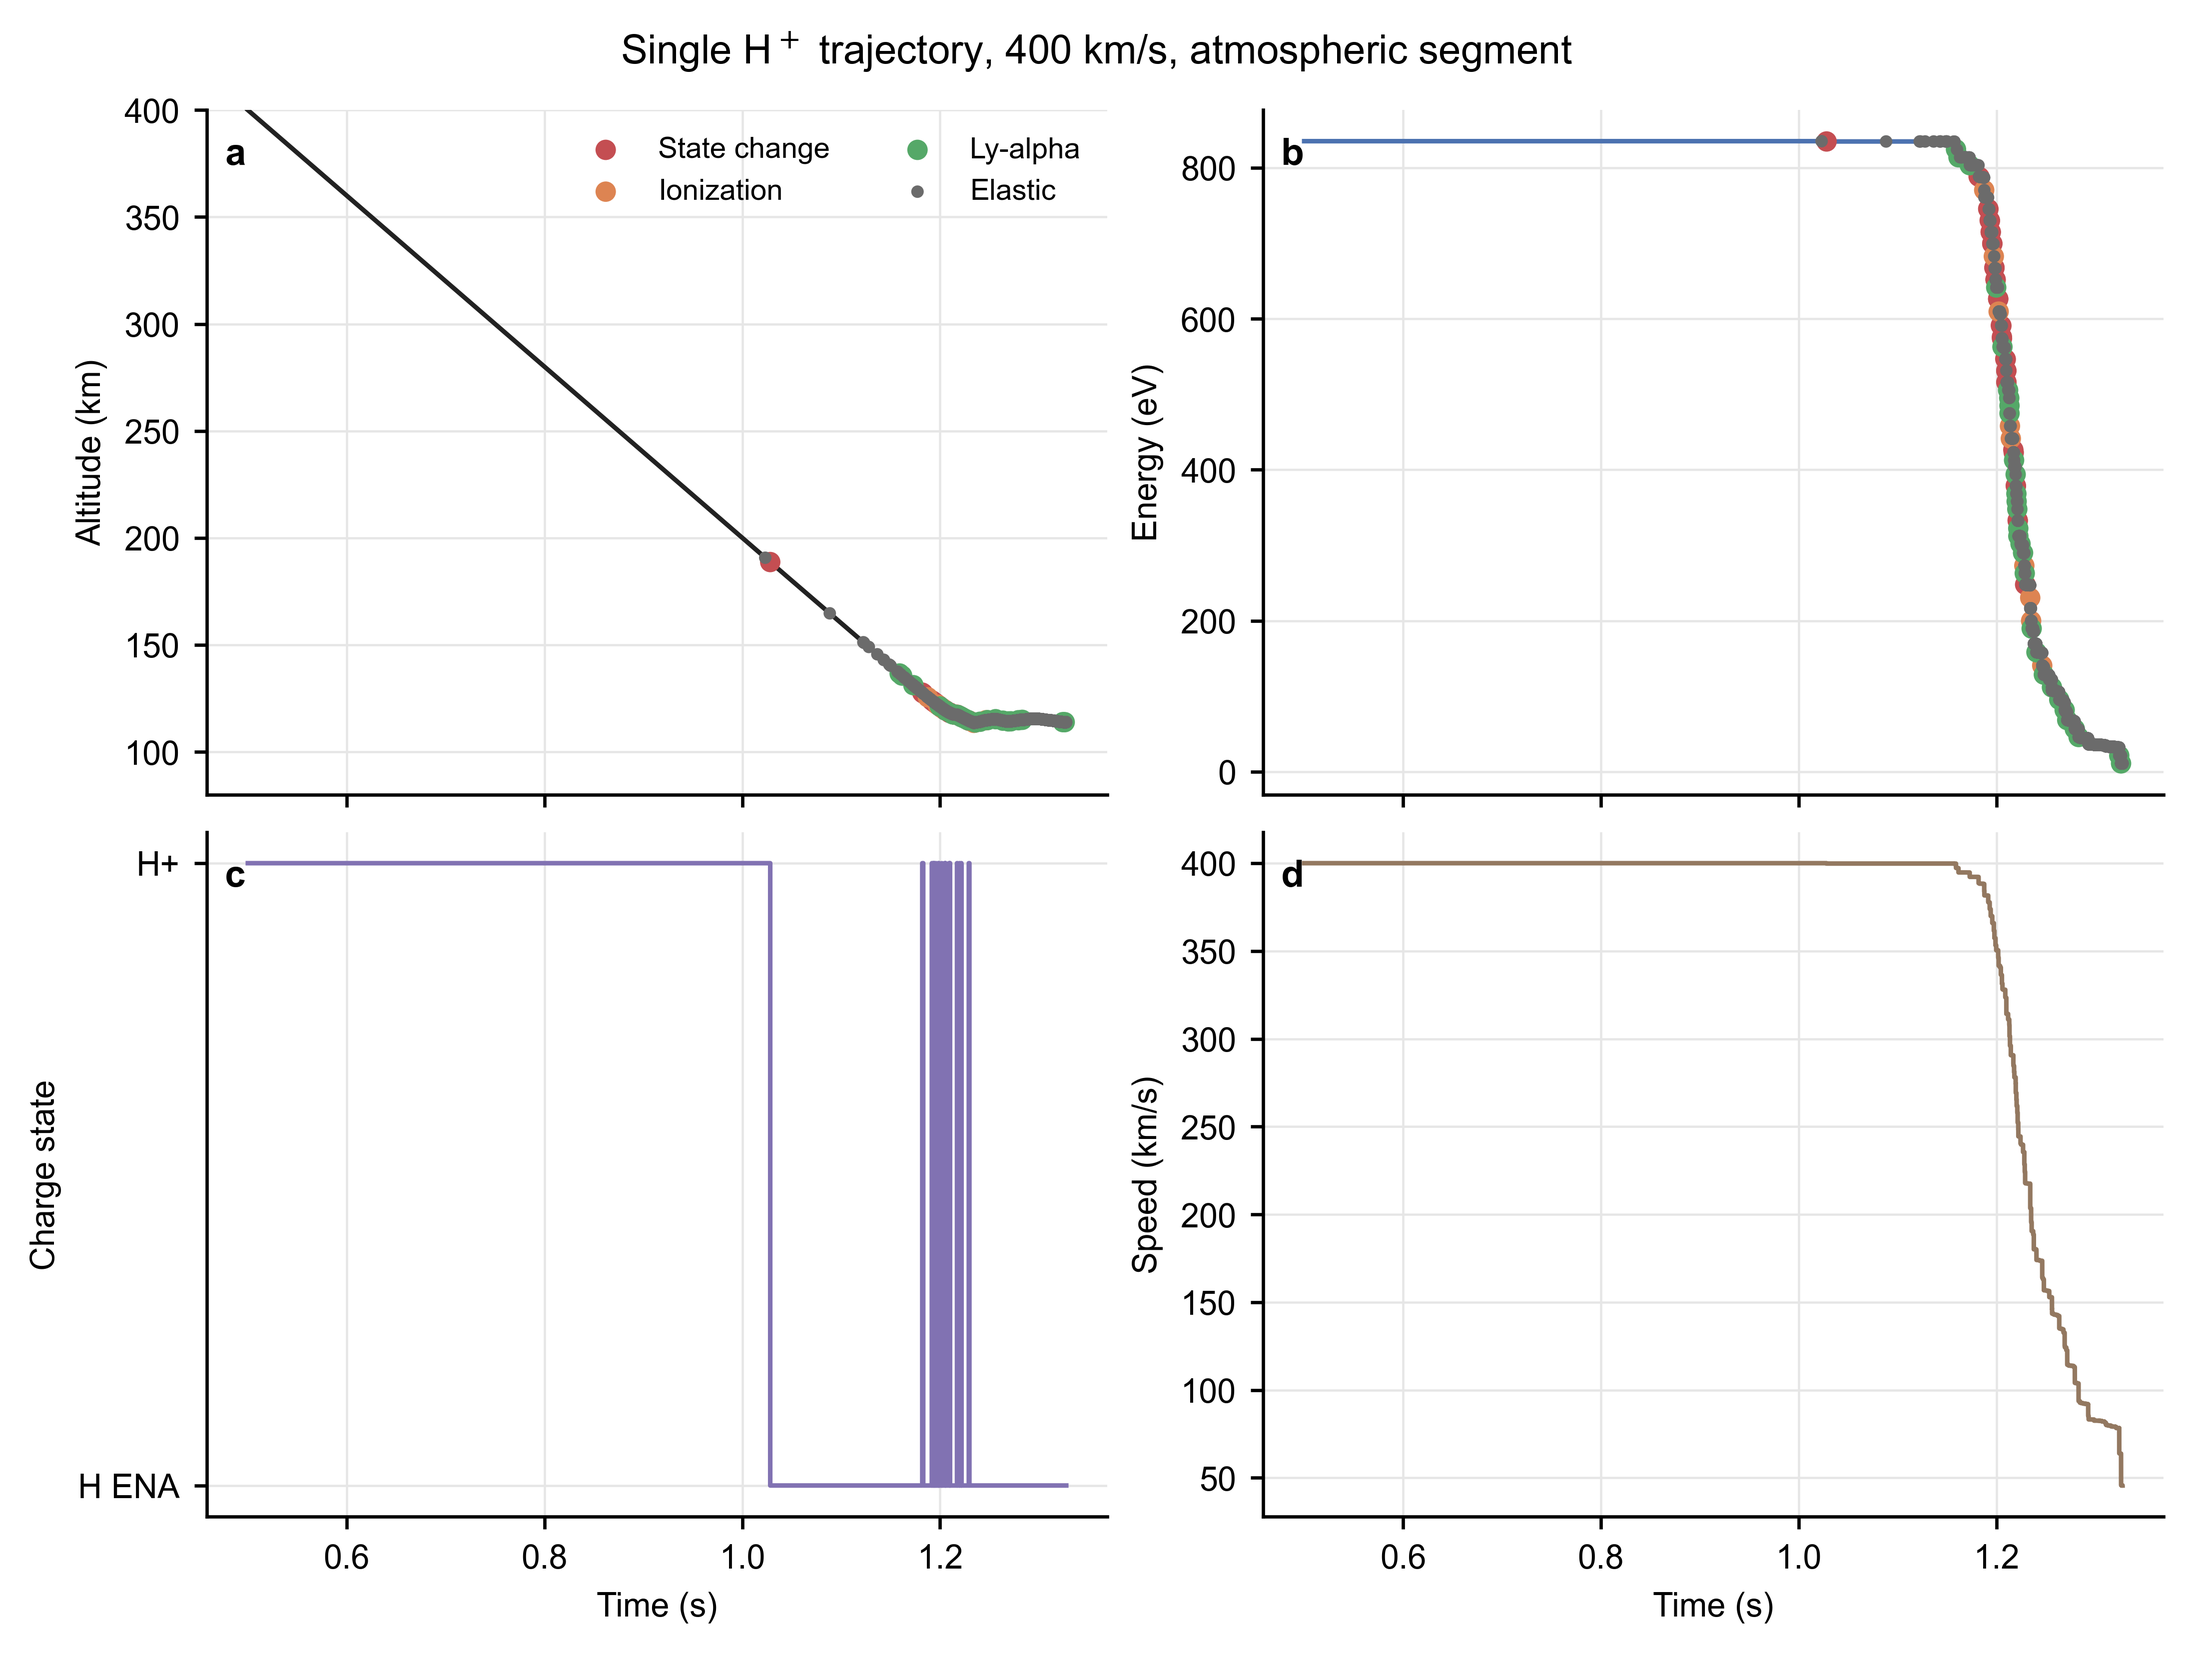
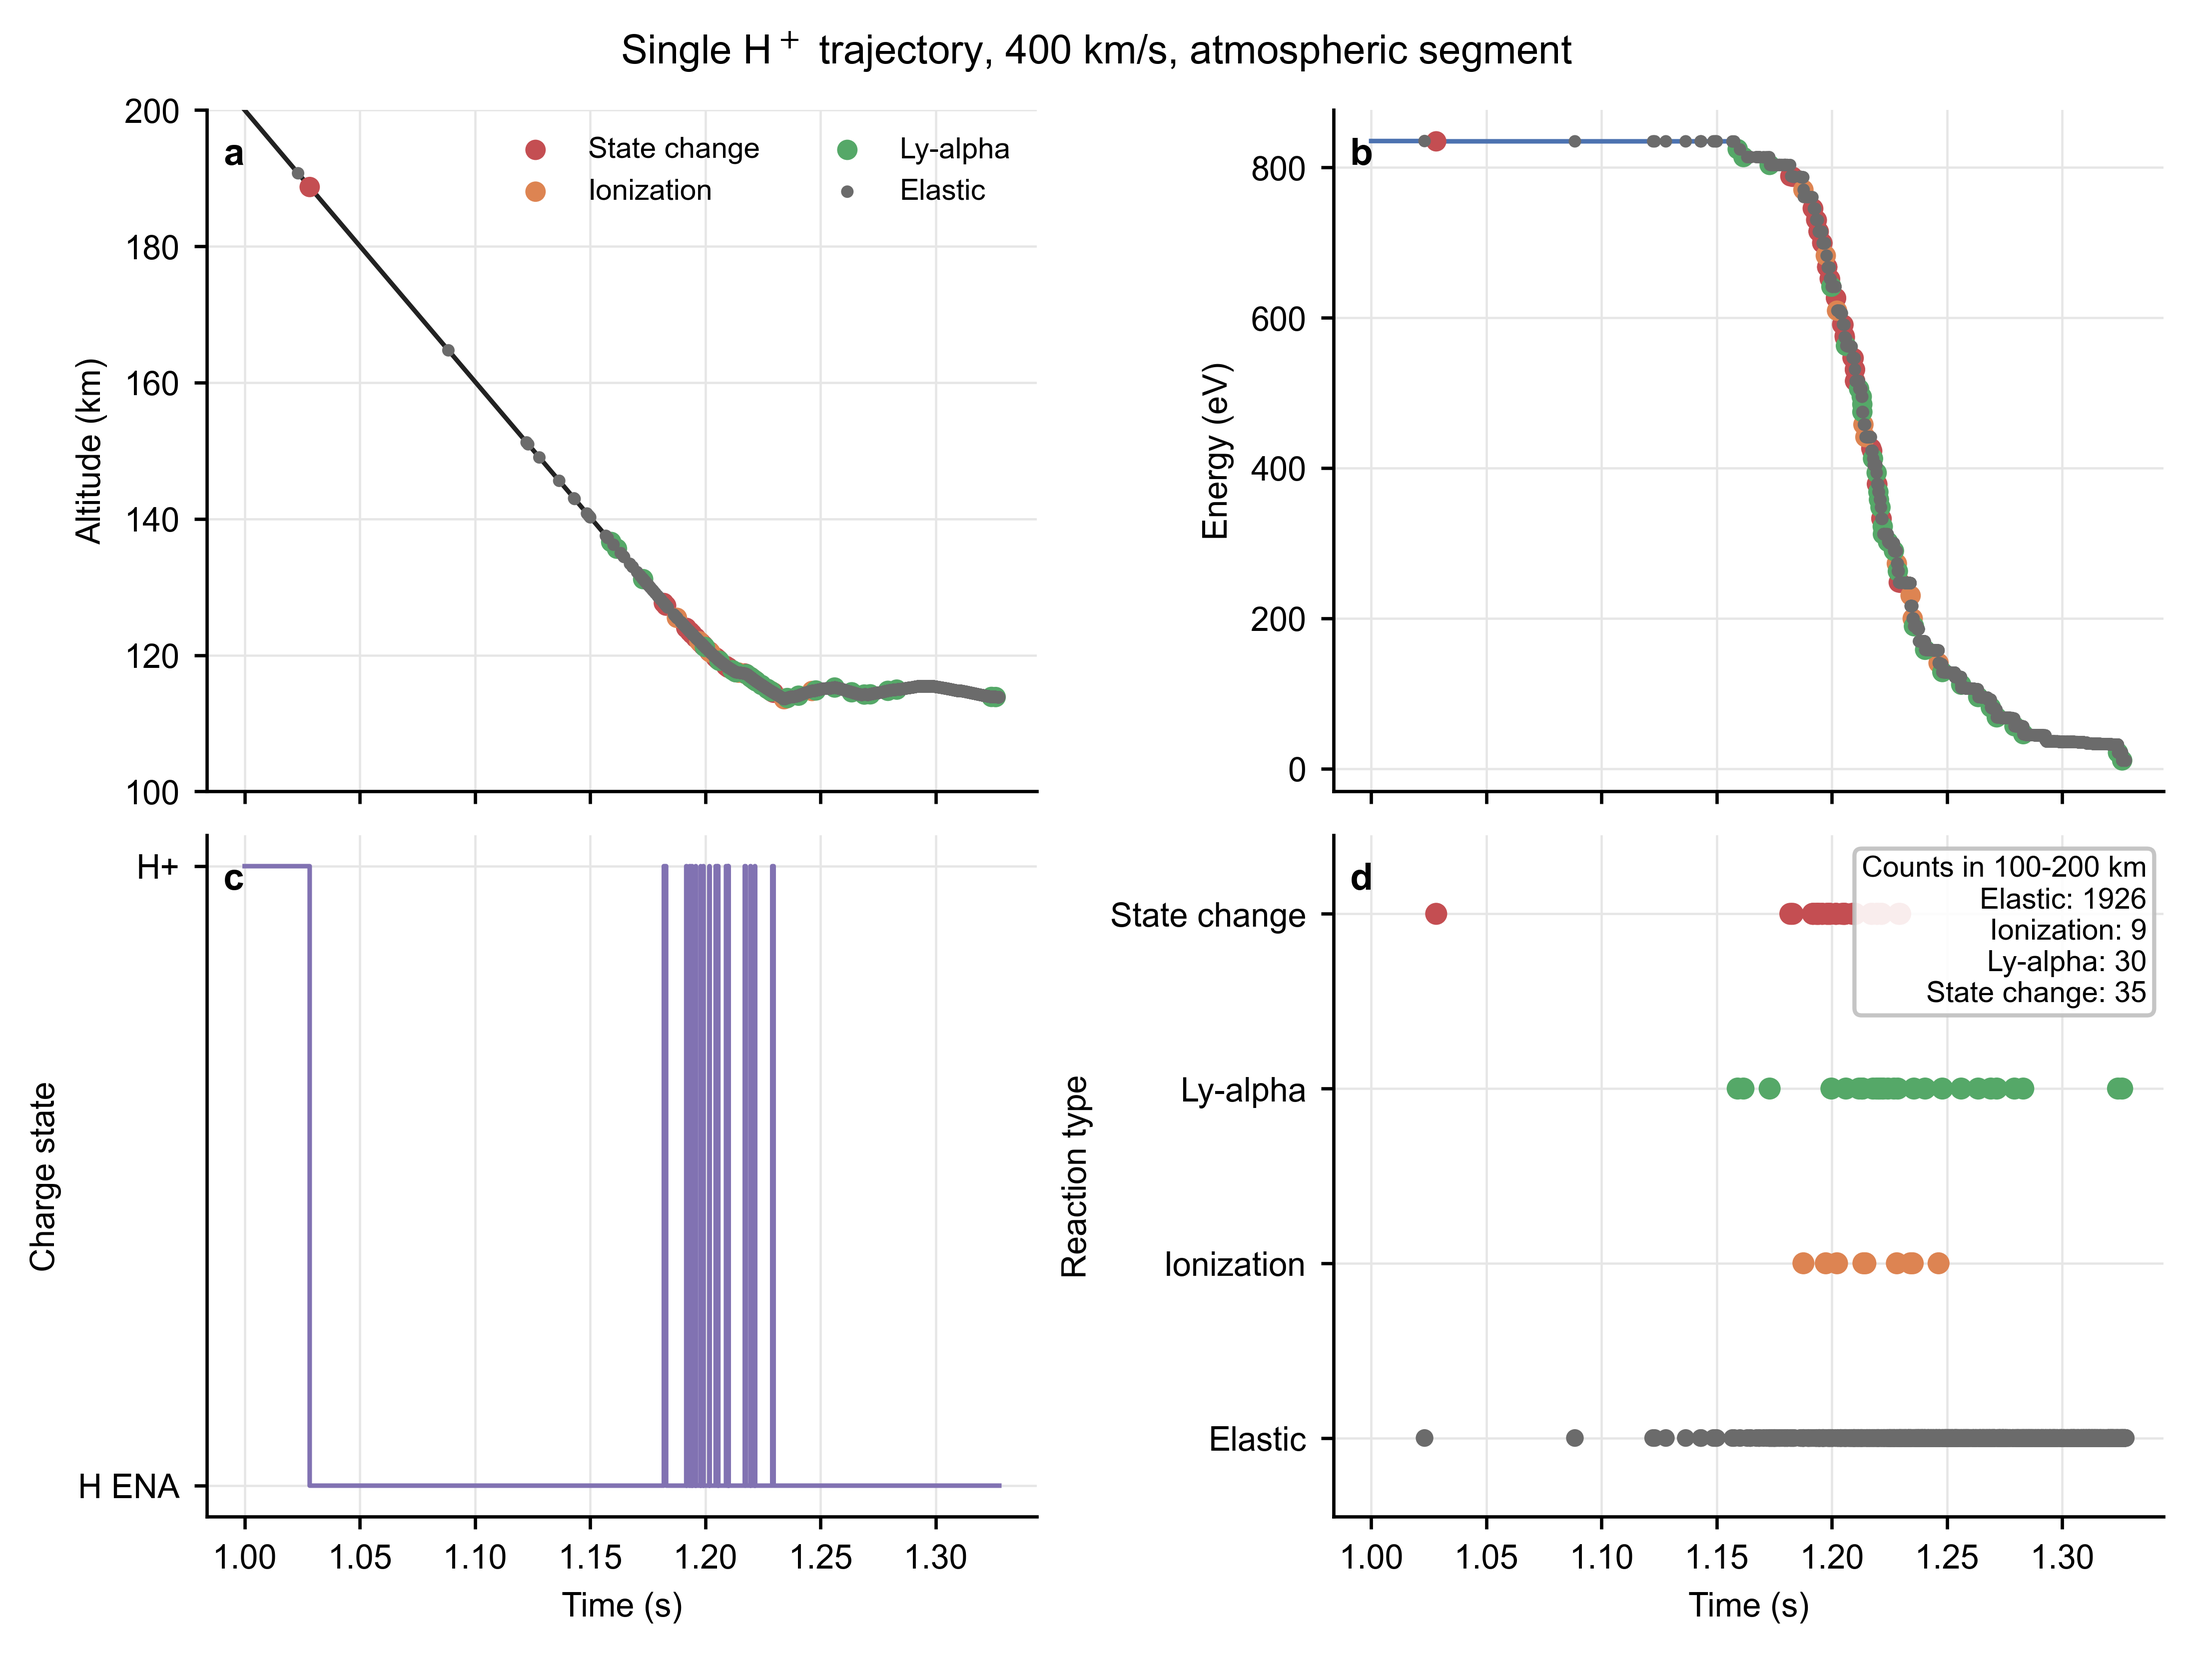
Add reaction timeline to single proton figure

diff --git a/examples/plot_single_trajectory.py b/examples/plot_single_trajectory.py
@@ -50,6 +50,12 @@ REACTION_COLORS = {
     3: "#55A868",
     4: "#6B6B6B",
 }
+REACTION_TIMELINE_LEVELS = {
+    4: 0,  # Elastic
+    2: 1,  # Target ionization
+    3: 2,  # Ly-alpha emission
+    1: 3,  # Projectile charge-state change
+}
 
 
 def vector(data: dict[str, np.ndarray], key: str) -> np.ndarray:
@@ -63,6 +69,12 @@ def main() -> None:
     parser.add_argument("--output", type=Path, default=None)
     parser.add_argument("--altitude-min", type=float, default=80.0)
     parser.add_argument("--altitude-max", type=float, default=400.0)
+    parser.add_argument(
+        "--panel-d",
+        choices=("speed", "reactions"),
+        default="speed",
+        help="Quantity shown in panel d.",
+    )
     args = parser.parse_args()
     if args.altitude_min >= args.altitude_max:
         raise ValueError("--altitude-min must be smaller than --altitude-max.")
@@ -115,7 +127,8 @@ def main() -> None:
     axes[0].plot(time_s, altitude, color="#222222", lw=1.1)
     axes[1].plot(time_s, energy, color="#4C72B0", lw=1.1)
     axes[2].step(time_s, charge, where="post", color="#8172B2", lw=1.1)
-    axes[3].plot(time_s, speed, color="#937860", lw=1.1)
+    if args.panel_d == "speed":
+        axes[3].plot(time_s, speed, color="#937860", lw=1.1)
 
     # Elastic collisions are often numerous, so their markers are smaller.
     for code, label in REACTION_LABELS.items():
@@ -138,7 +151,47 @@ def main() -> None:
     axes[1].set_ylabel("Energy (eV)")
     axes[2].set_ylabel("Charge state")
     axes[2].set_yticks([0, 1], ["H ENA", "H+"])
-    axes[3].set_ylabel("Speed (km/s)")
+    if args.panel_d == "speed":
+        axes[3].set_ylabel("Speed (km/s)")
+    else:
+        counts = {}
+        for code, level in REACTION_TIMELINE_LEVELS.items():
+            mask = collision & (reaction == code)
+            counts[code] = int(np.count_nonzero(mask))
+            if np.any(mask):
+                axes[3].scatter(
+                    time_s[mask],
+                    np.full(np.count_nonzero(mask), level),
+                    s=18 if code == 4 else 28,
+                    color=REACTION_COLORS[code],
+                    edgecolors="none",
+                    zorder=3,
+                )
+        axes[3].set_ylabel("Reaction type")
+        axes[3].set_yticks(
+            [0, 1, 2, 3],
+            ["Elastic", "Ionization", "Ly-alpha", "State change"],
+        )
+        axes[3].set_ylim(-0.45, 3.45)
+        count_text = "\n".join((
+            f"Elastic: {counts[4]}",
+            f"Ionization: {counts[2]}",
+            f"Ly-alpha: {counts[3]}",
+            f"State change: {counts[1]}",
+        ))
+        axes[3].text(
+            0.98, 0.97,
+            f"Counts in {args.altitude_min:g}-{args.altitude_max:g} km\n"
+            + count_text,
+            transform=axes[3].transAxes,
+            ha="right", va="top", fontsize=7,
+            bbox={
+                "boxstyle": "round,pad=0.25",
+                "facecolor": "white",
+                "edgecolor": "0.75",
+                "alpha": 0.90,
+            },
+        )
     axes[2].set_xlabel("Time (s)")
     axes[3].set_xlabel("Time (s)")
     axes[0].legend(ncol=2, fontsize=7, loc="best")

diff --git a/examples/README.md b/examples/README.md
@@ -33,11 +33,15 @@ H ENA back into H+.
 
 ```powershell
 julia --project=. examples/run_hplus_trajectory.jl
-C:\Users\Win\.conda\envs\mars\python.exe examples/plot_single_trajectory.py examples/output/single_hplus_400kms.mat
+C:\Users\Win\.conda\envs\mars\python.exe examples/plot_single_trajectory.py examples/output/single_hplus_400kms.mat --altitude-min 100 --altitude-max 200 --panel-d reactions --output examples/figures/single_hplus_400kms.png
 ```
 
 The PNG is stored at
-`examples/figures/single_hplus_400kms.png`.
+`examples/figures/single_hplus_400kms.png`. Panels a to c show altitude,
+energy, and charge state between 100 and 200 km. Panel d places every
+collision on a reaction timeline with Elastic = 0, Ionization = 1,
+Ly-alpha = 2, and State change = 3, and reports the number of events in each
+category over the displayed altitude interval.
 
 ## 3. Atmospheric density cases
 
